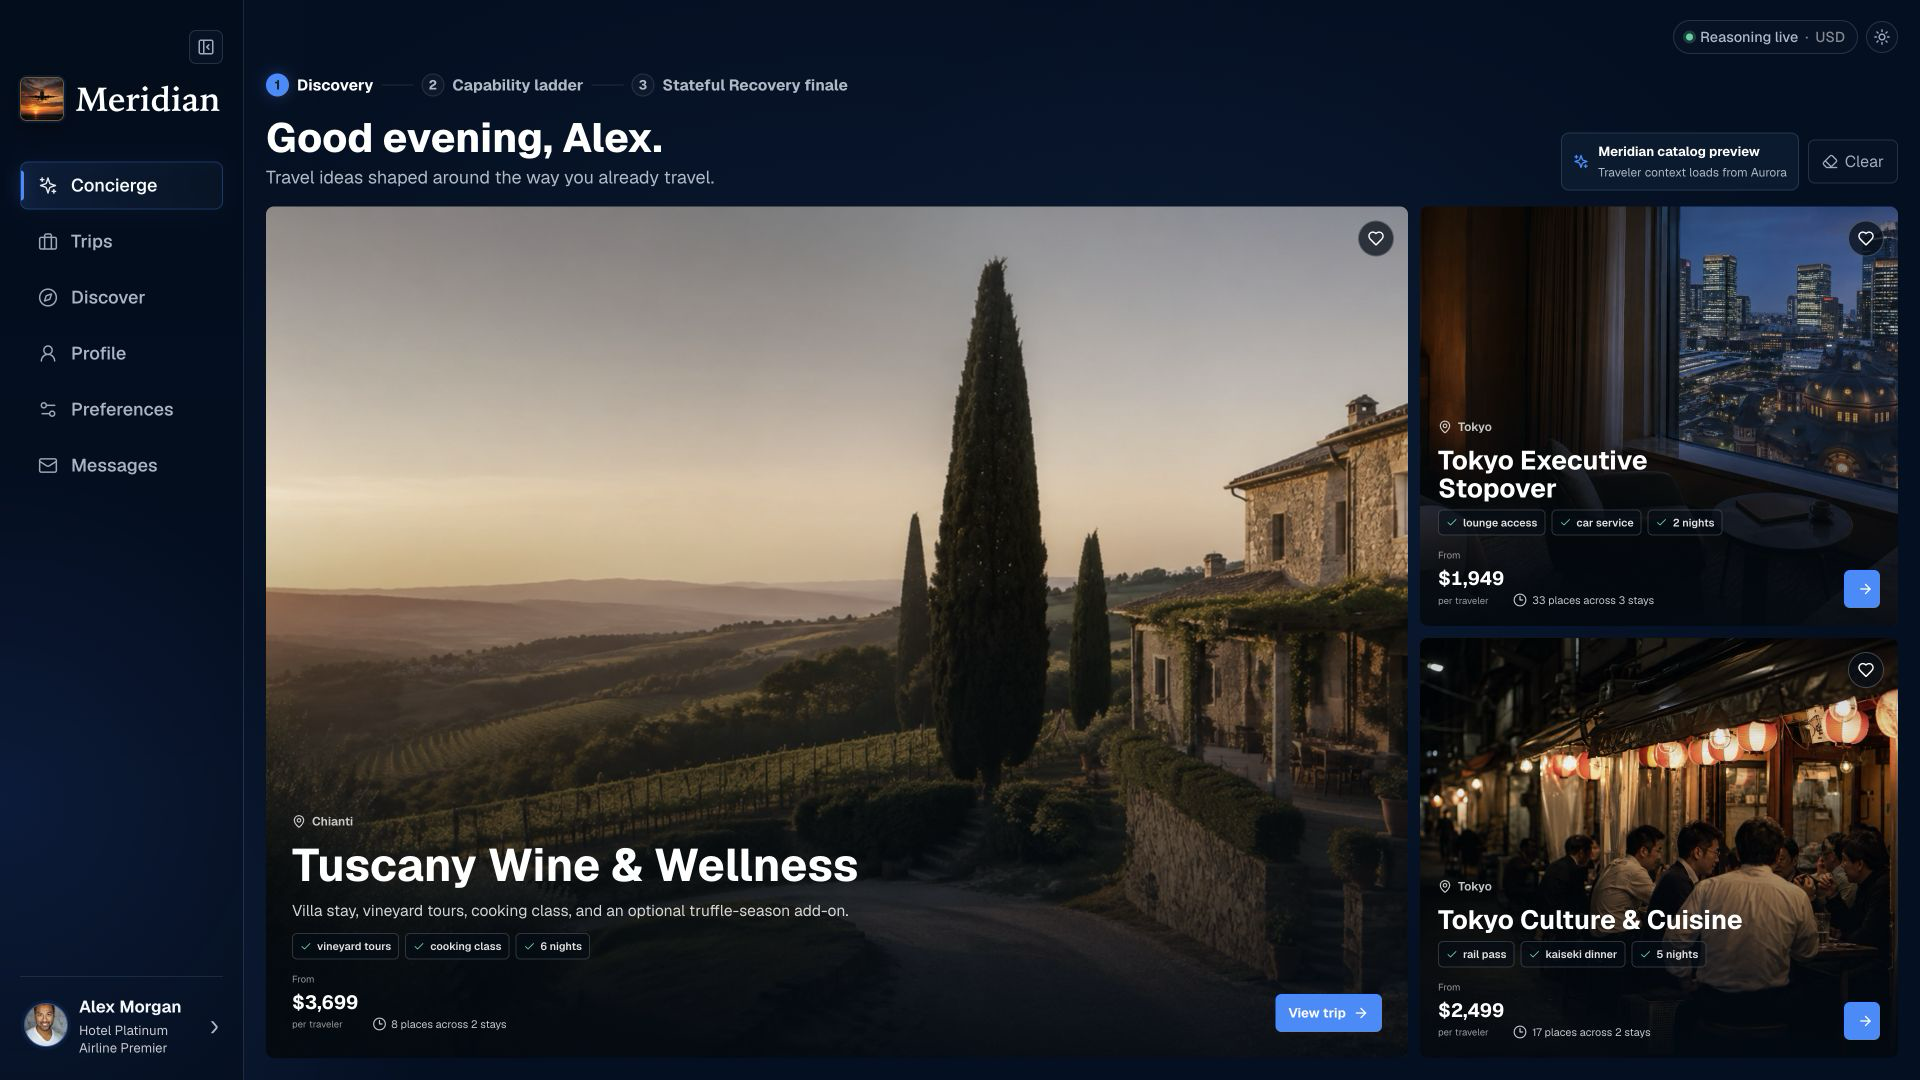
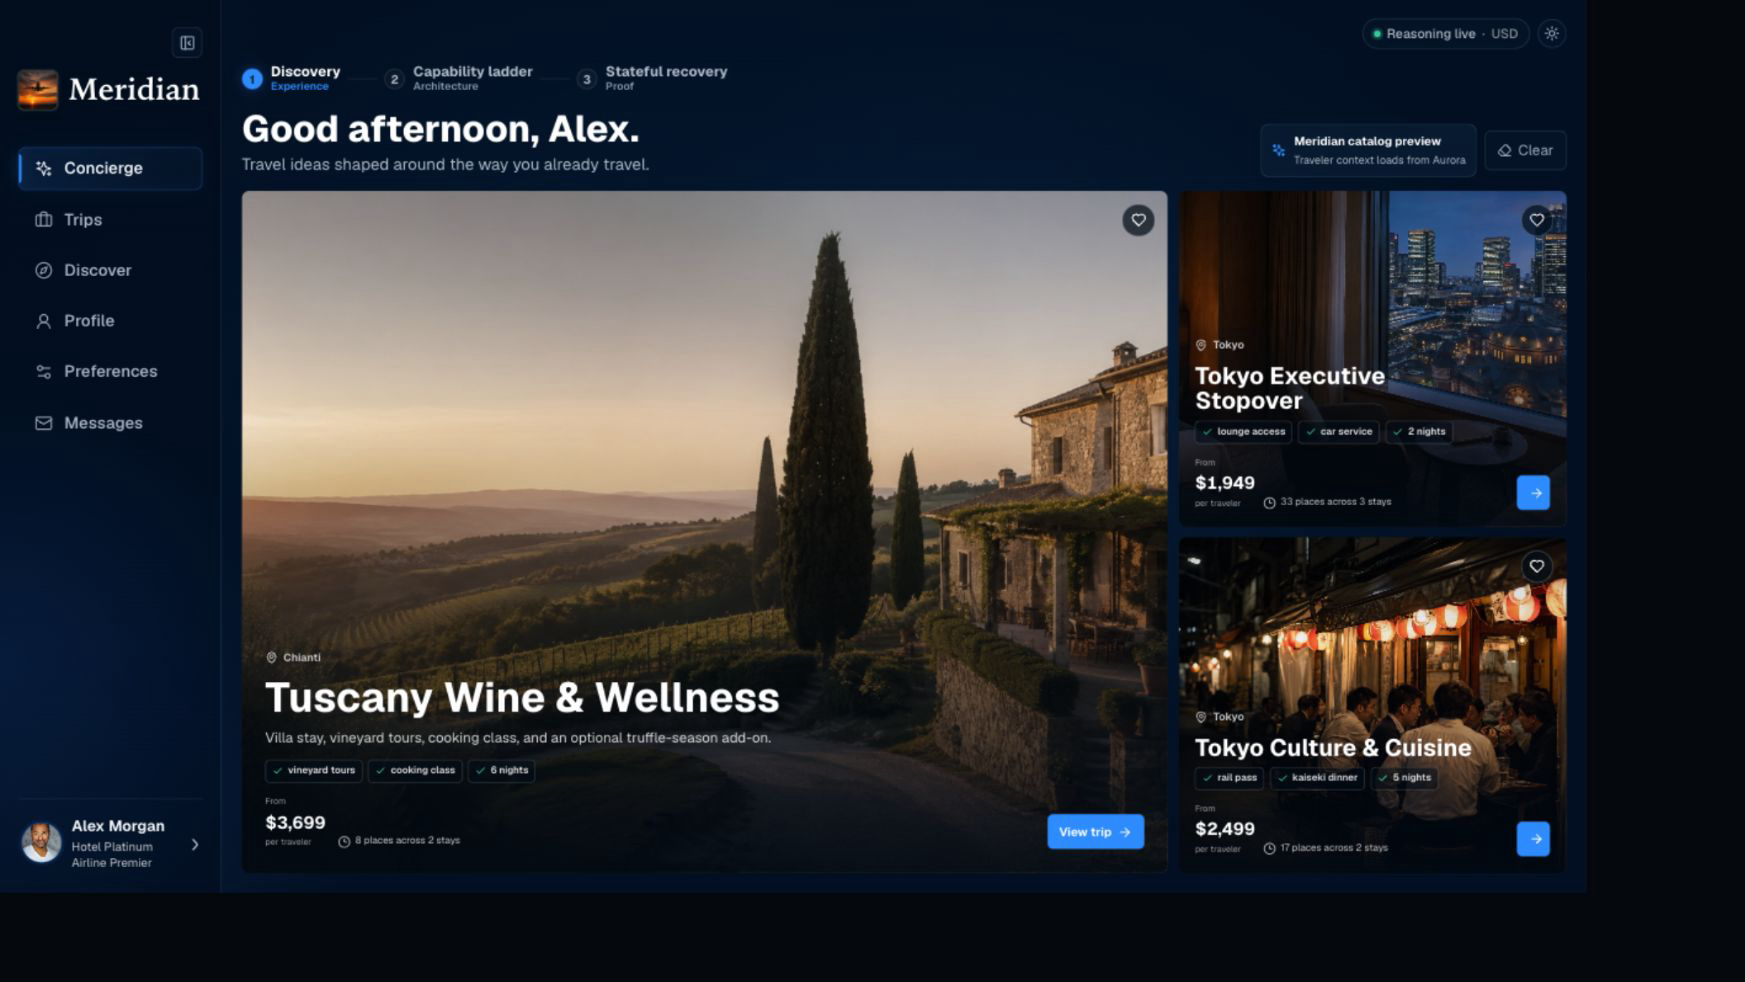
Align Meridian showcase narrative

diff --git a/meridian/frontend/src/showcase/DesktopMeridianApp.tsx b/meridian/frontend/src/showcase/DesktopMeridianApp.tsx
@@ -247,30 +247,42 @@ export function DesktopMeridianApp({
               type="button"
               className={isDiscovery ? 'is-active' : ''}
               aria-current={isDiscovery ? 'step' : undefined}
+              aria-label="1 Discovery, Experience"
               onClick={openDiscovery}
             >
-              <span>1</span>
-              Discovery
+              <span className="mds-demo-sequence-index" aria-hidden="true">1</span>
+              <span className="mds-demo-sequence-copy" aria-hidden="true">
+                <strong>Discovery</strong>
+                <small>Experience</small>
+              </span>
             </button>
             <i aria-hidden="true" />
             <button
               type="button"
               className={isLadder ? 'is-active' : ''}
               aria-current={isLadder ? 'step' : undefined}
+              aria-label="2 Capability ladder, Architecture"
               onClick={openLadder}
             >
-              <span>2</span>
-              Capability ladder
+              <span className="mds-demo-sequence-index" aria-hidden="true">2</span>
+              <span className="mds-demo-sequence-copy" aria-hidden="true">
+                <strong>Capability ladder</strong>
+                <small>Architecture</small>
+              </span>
             </button>
             <i aria-hidden="true" />
             <button
               type="button"
               className={isFinale ? 'is-active' : ''}
               aria-current={isFinale ? 'step' : undefined}
+              aria-label="3 Stateful recovery, Proof"
               onClick={openFinale}
             >
-              <span>3</span>
-              Stateful Recovery finale
+              <span className="mds-demo-sequence-index" aria-hidden="true">3</span>
+              <span className="mds-demo-sequence-copy" aria-hidden="true">
+                <strong>Stateful recovery</strong>
+                <small>Proof</small>
+              </span>
             </button>
           </nav>
 

diff --git a/meridian/frontend/src/showcase/recoveryWorkspace.css b/meridian/frontend/src/showcase/recoveryWorkspace.css
@@ -50,10 +50,10 @@
 }
 
 .mds-demo-sequence button {
-  min-height: 32px;
+  min-height: 38px;
   display: inline-flex;
   align-items: center;
-  gap: 8px;
+  gap: 9px;
   padding: 0;
   border: 0;
   color: var(--mds-muted);
@@ -62,9 +62,10 @@
   font-weight: 700;
 }
 
-.mds-demo-sequence button span {
+.mds-demo-sequence-index {
   width: 23px;
   height: 23px;
+  flex: 0 0 23px;
   display: grid;
   place-items: center;
   border: 1px solid var(--mds-line-strong);
@@ -74,15 +75,47 @@
   font-size: calc(11px * var(--mds-fs));
 }
 
+.mds-demo-sequence-copy {
+  min-width: 0;
+  display: grid;
+  gap: 1px;
+  text-align: left;
+}
+
+.mds-demo-sequence-copy strong,
+.mds-demo-sequence-copy small {
+  overflow: hidden;
+  text-overflow: ellipsis;
+  white-space: nowrap;
+}
+
+.mds-demo-sequence-copy strong {
+  color: inherit;
+  font-size: inherit;
+  font-weight: 720;
+  line-height: 1.1;
+}
+
+.mds-demo-sequence-copy small {
+  color: var(--mds-dim);
+  font-size: calc(10px * var(--mds-fs));
+  font-weight: 600;
+  line-height: 1.1;
+}
+
 .mds-demo-sequence button.is-active {
   color: var(--mds-on-surface);
 }
 
-.mds-demo-sequence button.is-active span {
+.mds-demo-sequence button.is-active .mds-demo-sequence-index {
   border-color: var(--mds-blue);
   color: #052329;
   background: var(--mds-blue);
   box-shadow: 0 0 14px var(--mds-blue-line);
+}
+
+.mds-demo-sequence button.is-active .mds-demo-sequence-copy small {
+  color: var(--mds-blue);
 }
 
 .mds-demo-sequence > i {

diff --git a/meridian/frontend/src/showcase/components/__tests__/ExperiencePolish.test.tsx b/meridian/frontend/src/showcase/components/__tests__/ExperiencePolish.test.tsx
@@ -103,7 +103,7 @@ describe('Experience presentation polish', () => {
       screen.getByRole('region', { name: 'Meridian discovery' }),
     ).toBeInTheDocument();
     expect(
-      screen.getByRole('button', { name: '1 Discovery' }),
+      screen.getByRole('button', { name: '1 Discovery, Experience' }),
     ).toHaveAttribute('aria-current', 'step');
 
     fireEvent.click(
@@ -119,7 +119,7 @@ describe('Experience presentation polish', () => {
       'is-ladder',
     );
     expect(
-      screen.getByRole('button', { name: '2 Capability ladder' }),
+      screen.getByRole('button', { name: '2 Capability ladder, Architecture' }),
     ).toHaveAttribute('aria-current', 'step');
   });
 
@@ -147,7 +147,7 @@ describe('Experience presentation polish', () => {
     expect(screen.getByRole('button', { name: 'Trips' })).toBeInTheDocument();
 
     fireEvent.click(
-      screen.getByRole('button', { name: '3 Stateful Recovery finale' }),
+      screen.getByRole('button', { name: '3 Stateful recovery, Proof' }),
     );
     expect(app).toHaveClass('is-sidebar-collapsed');
 
@@ -167,7 +167,7 @@ describe('Experience presentation polish', () => {
     );
 
     fireEvent.click(
-      screen.getByRole('button', { name: '3 Stateful Recovery finale' }),
+      screen.getByRole('button', { name: '3 Stateful recovery, Proof' }),
     );
 
     const dock = container.querySelector('.mds-desktop-dock');

diff --git a/meridian/frontend/src/showcase/discoveryWorkspace.css b/meridian/frontend/src/showcase/discoveryWorkspace.css
@@ -464,8 +464,12 @@
     font-size: 0;
   }
 
-  .mds-demo-sequence.has-three button span {
+  .mds-demo-sequence.has-three .mds-demo-sequence-index {
     margin: 0;
+  }
+
+  .mds-demo-sequence.has-three .mds-demo-sequence-copy {
+    display: none;
   }
 
   .mds-discovery-heading {

diff --git a/README.md b/README.md
@@ -24,9 +24,9 @@ security, audit trails, and checkpoints keep every turn governed and resilient.
 > PostgresSaver externalizes workflow execution state into Aurora through a
 > bounded PostgreSQL connection pool.
 
-![Meridian Discovery workspace showing personalized Tuscany and Tokyo recommendations for Alex Morgan](meridian/docs/meridian-showcase.png)
+![Meridian Discovery experience showing personalized Tuscany and Tokyo recommendations with the Experience, Architecture, and Proof journey](meridian/docs/meridian-showcase.png)
 
-<p align="center"><sub>Discovery opens with image-led recommendations personalized from Alex Morgan's Aurora-backed traveler context.</sub></p>
+<p align="center"><sub>Meridian moves from customer experience, to architecture, to durable proof, starting with Aurora-backed personalized discovery.</sub></p>
 
 **[Quick start](#quick-start)** · **[Five-phase architecture](#what-it-demonstrates)** · **[Stateful architecture](meridian/docs/STATEFUL_ARCHITECTURE.md)** · **[Validation](#validation)** · **[Demo script](meridian/DEMO_SCRIPT.md)** · **[Presenter guide](meridian/docs/PRESENTER_GUIDE.md)**
 
